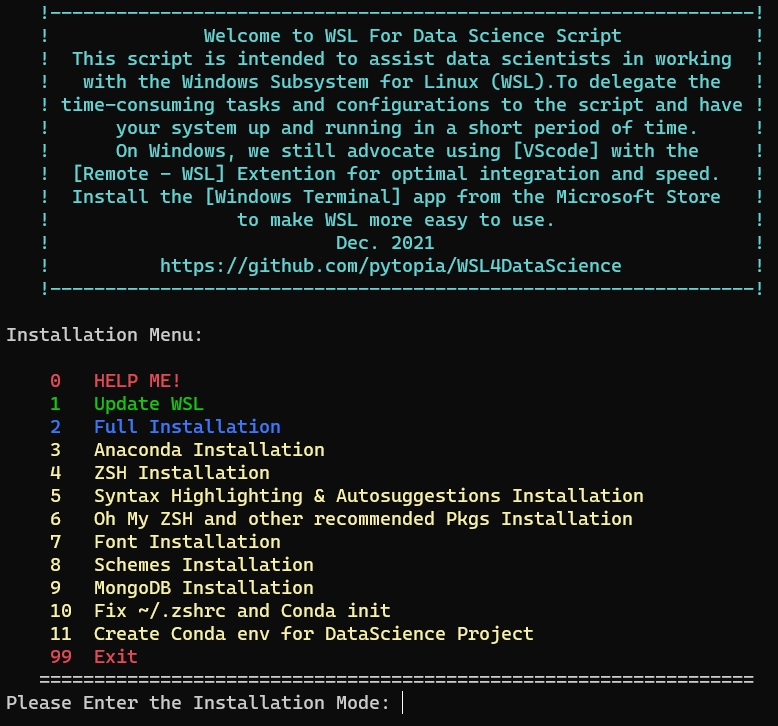
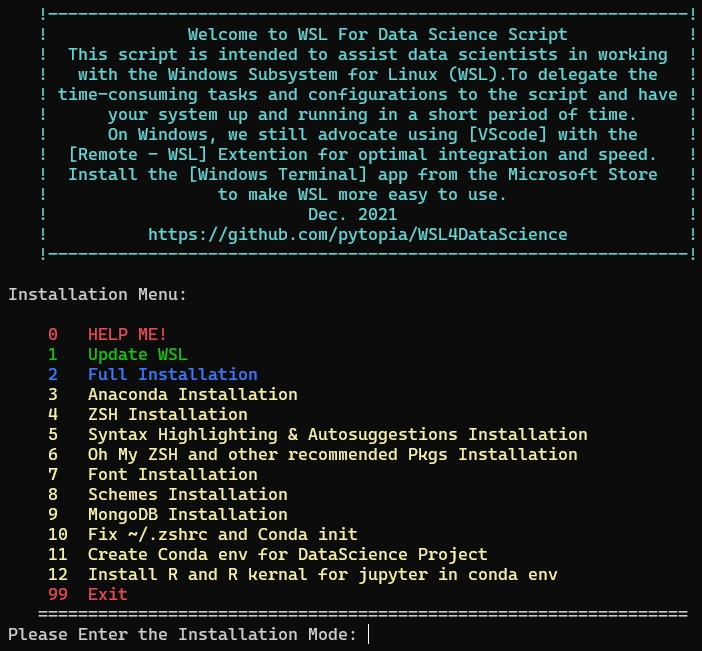
r and r_kernal was added.

Changed region(s): [[0.0598, 0.0, 0.9872, 0.3994], [0.0, 0.4301, 0.9872, 0.9831]]

diff --git a/README.md b/README.md
@@ -50,6 +50,11 @@ In this section to provide a complete environment for data science activities a 
              scikit-learn tensorflow keras plotly
              pytorch pymongo scrapy beautifulsoup4
 ```
+### 12.Install R and R kernal for jupyter in conda env:
+Enter the name of a new environment to be created, and
+the R, R kernel, and Jupiter lab will be installed on
+it at the same time.
+
 ### 99.Exit:
 You can quit the script by typing the number 99 in the menu.
 	     
